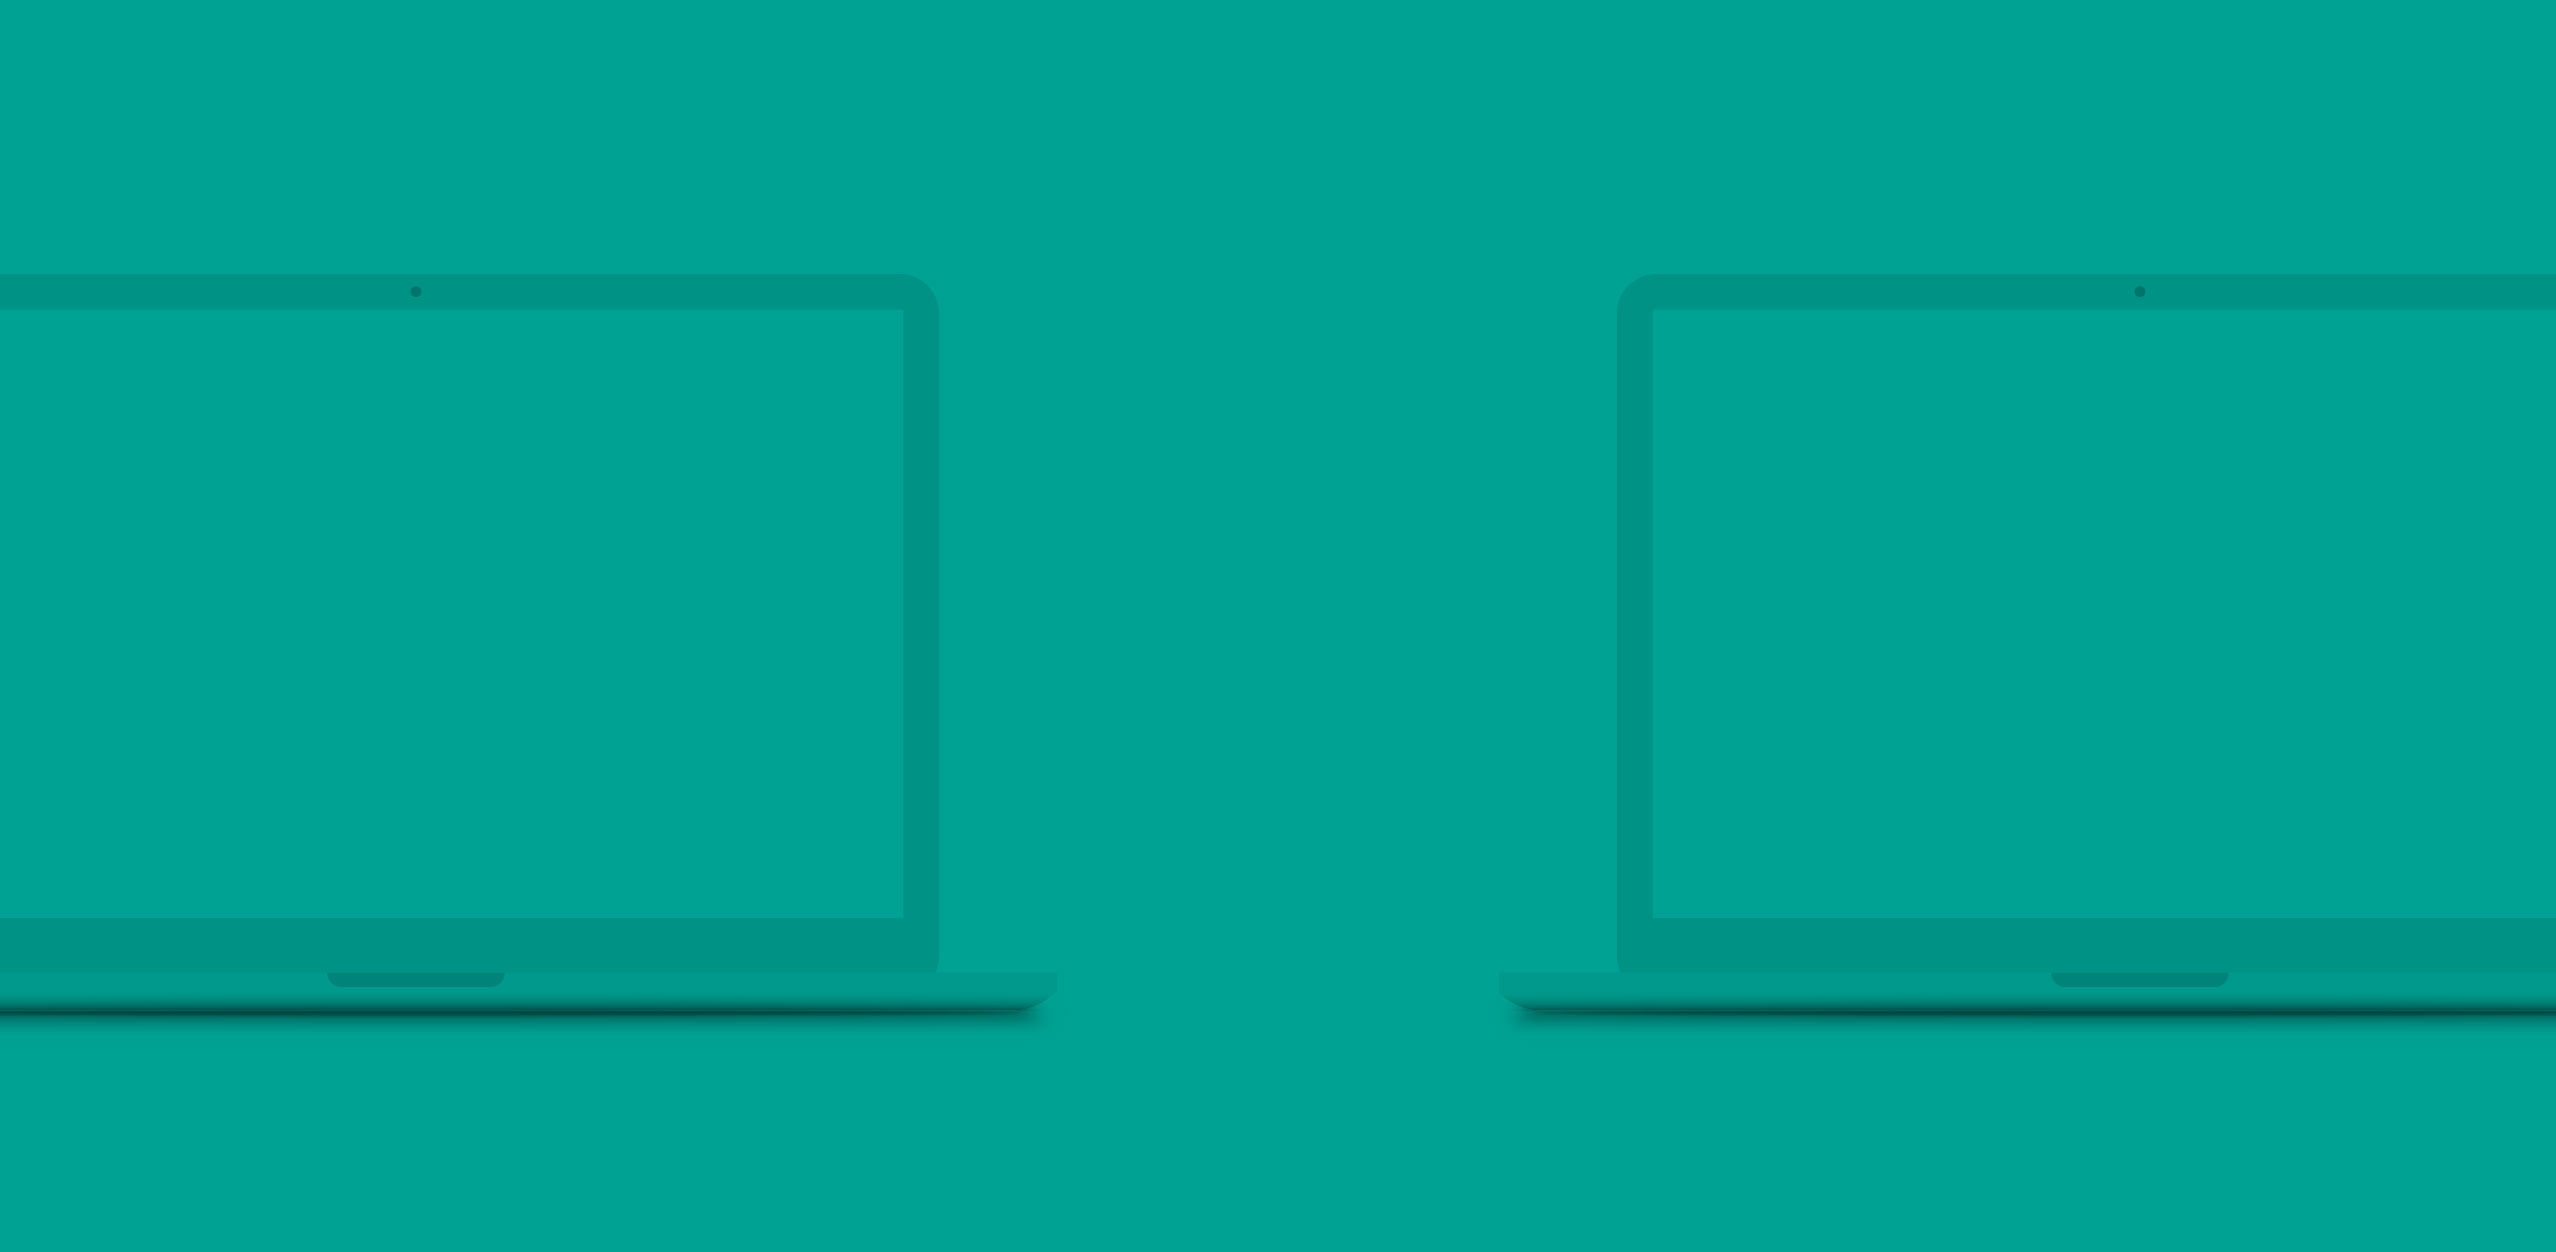
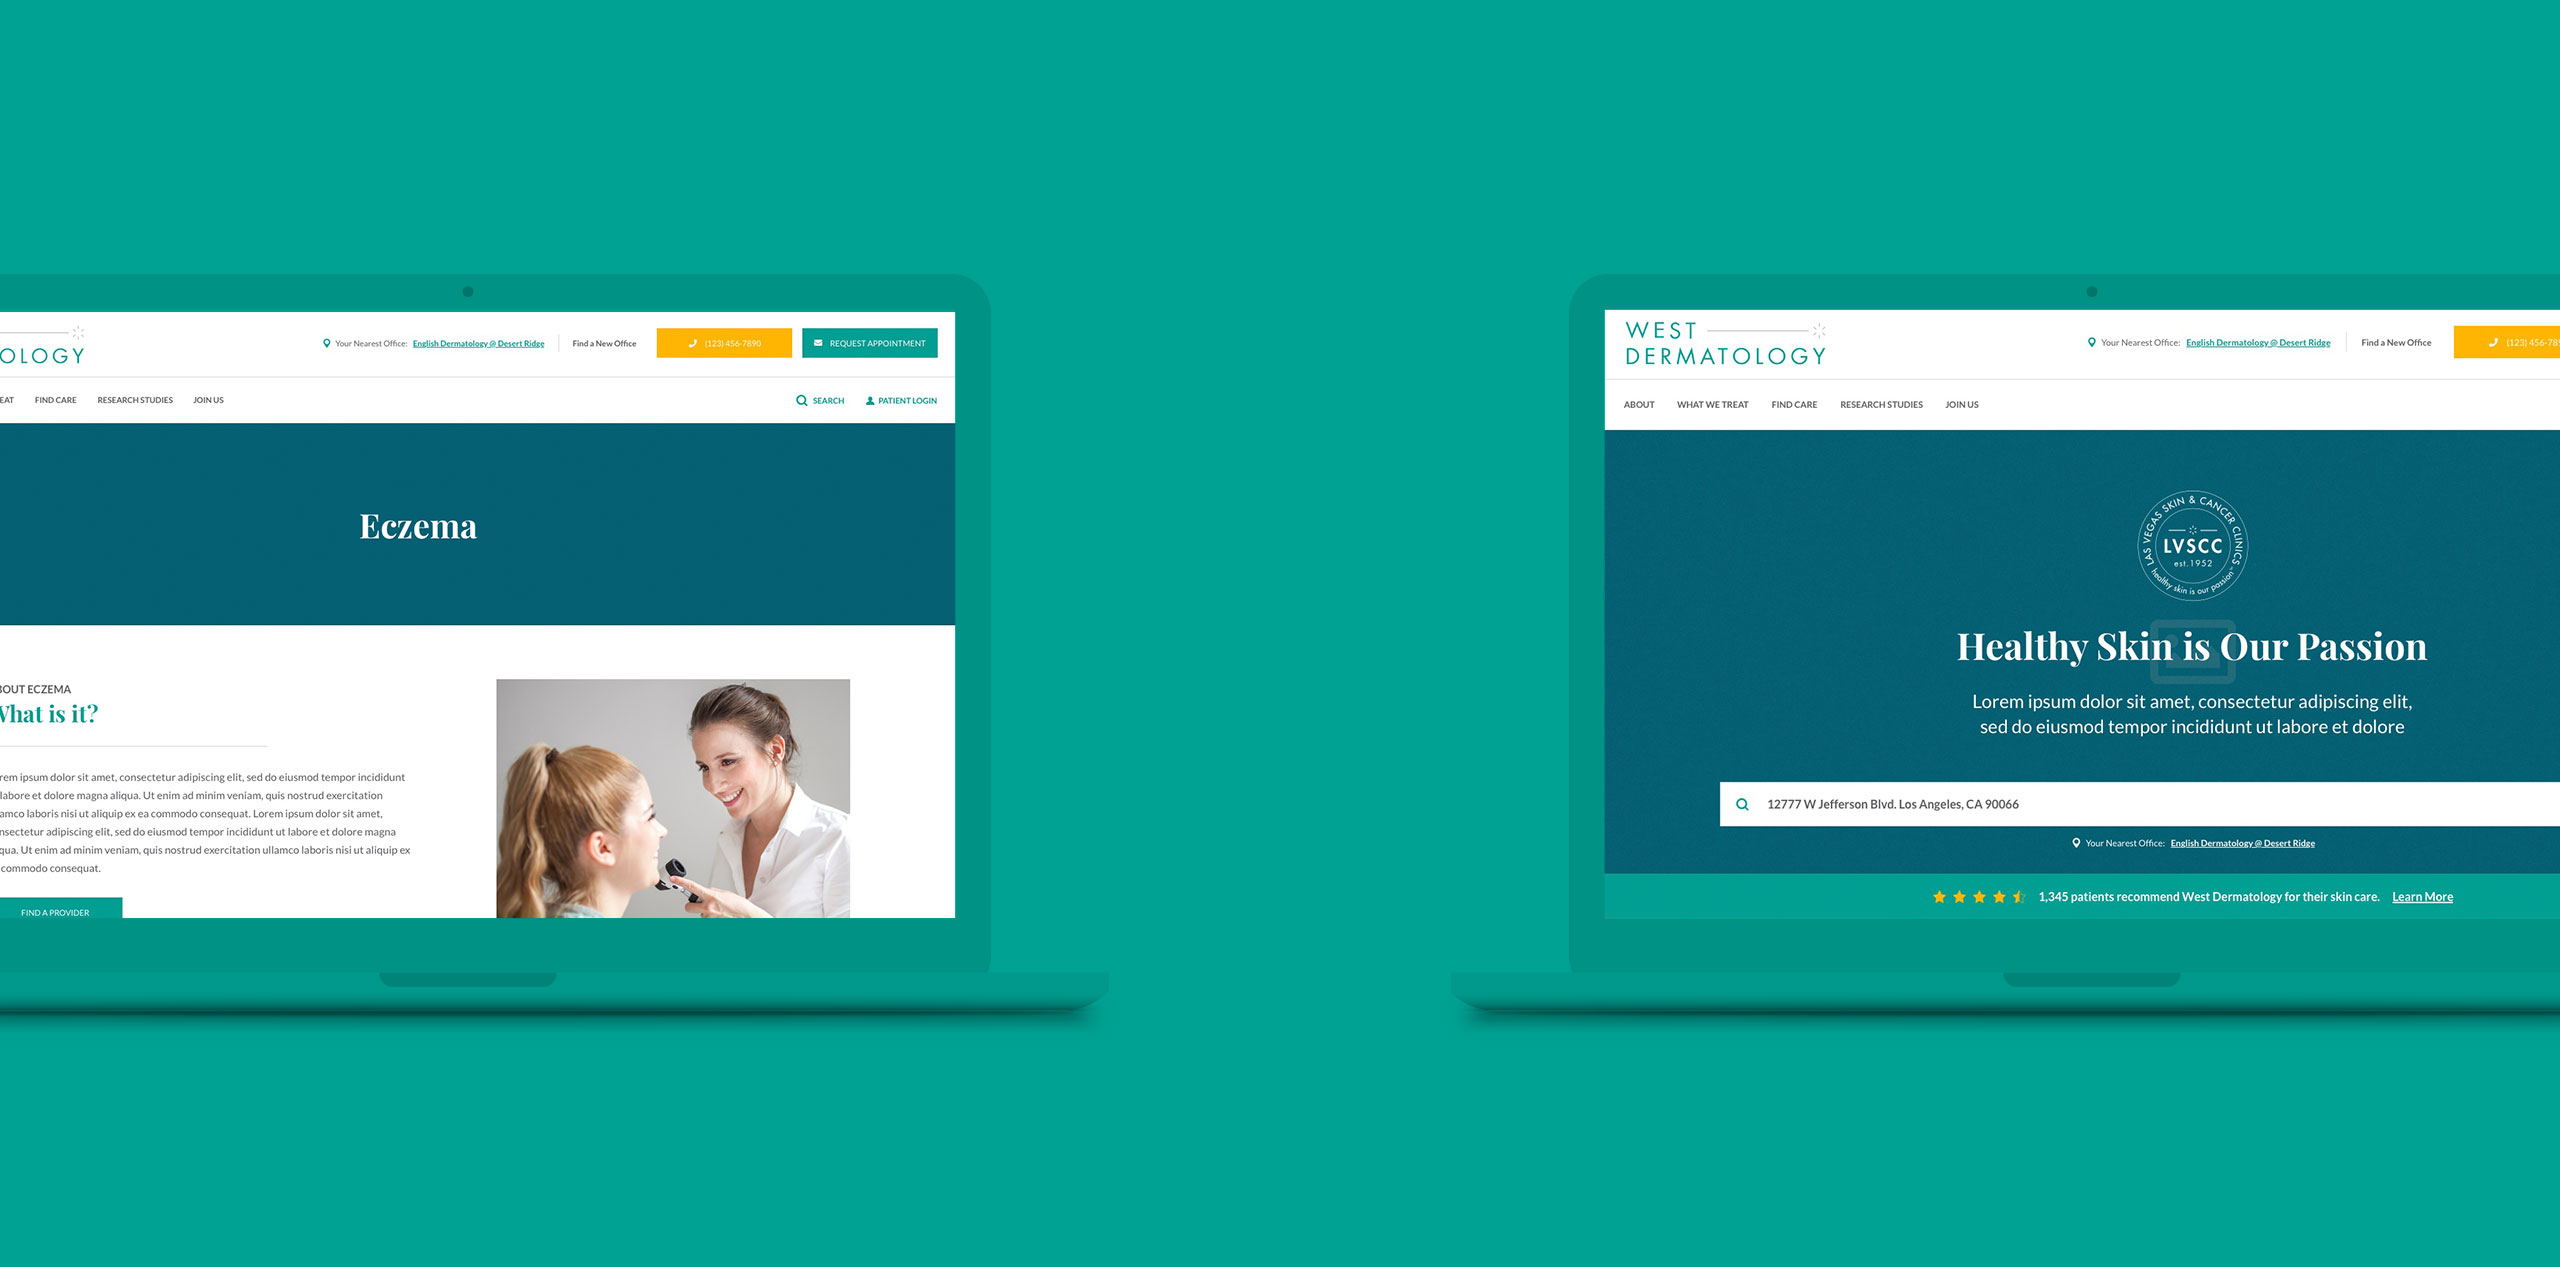
westderm updates

diff --git a/routes/projects.js b/routes/projects.js
@@ -23,7 +23,7 @@ router.get('/westderm', function(req, res, next) {
     role: 'Design',
     prevProject: 'xbox-one-x',
     nextProject: 'disney-toybox',
-    body: 'Disney came to us asking to help come up with a new campaign focused around the release of their new toyline. The campaign was a relatively short timeline starting in early October and going live in mid November, just in time for the holidays. As the campaign was primarily going to be utilized around the holidays, we were coming up with creative ways to bring the characters and holidays to your house.',
+    body: 'West Dermatology had an interesting problem to solve: How do we have a corporate brand trickle down to many individual brands all under the same roof. This project presented many unique UX challenges but also design challenges. Given the scale of the site, we had to come up with creative ways to gain efficiencies in the design process. One of those was moving over to sketch for design and implementing a design system that would essentially allow us to dynamically update content and build new pages out faster than we ever could traditionally using photoshop. You can view the site <a href="westdermatology.com"><b>here</b></a>',
   }
   res.render('pages/westderm', { project: project, images: [] })
 });
